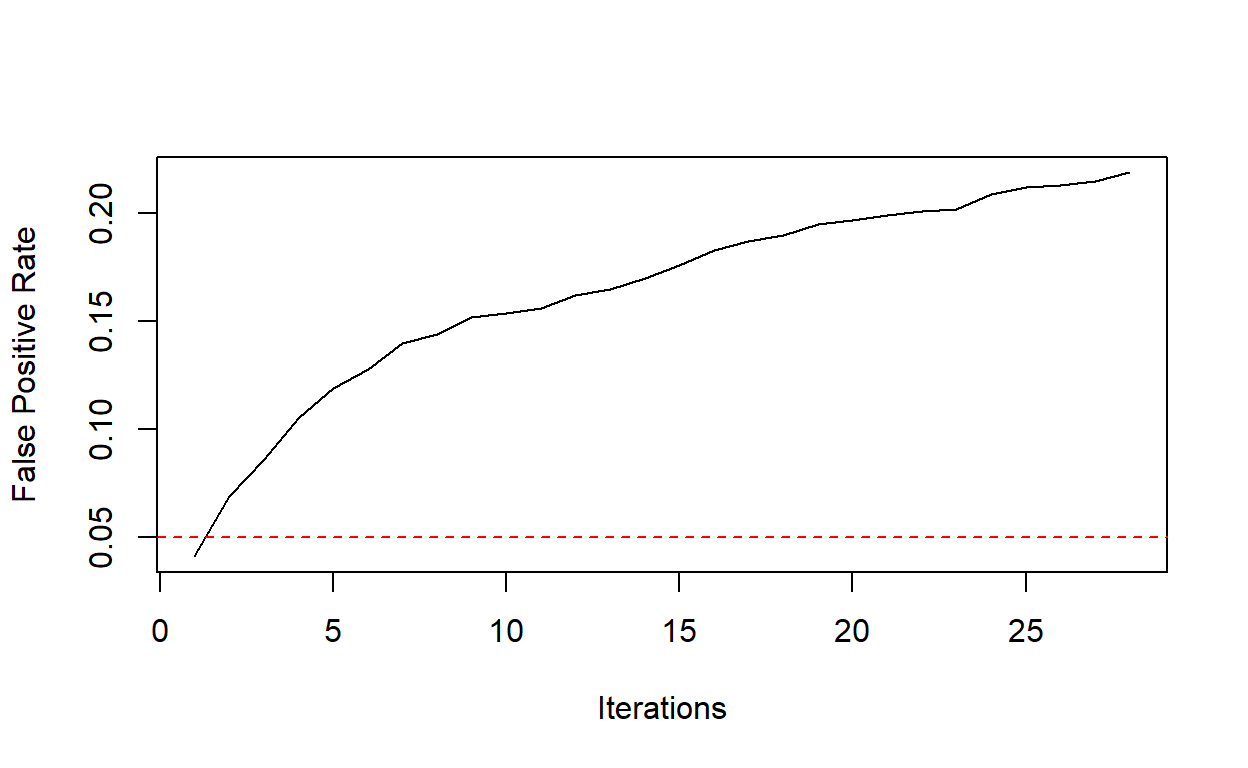
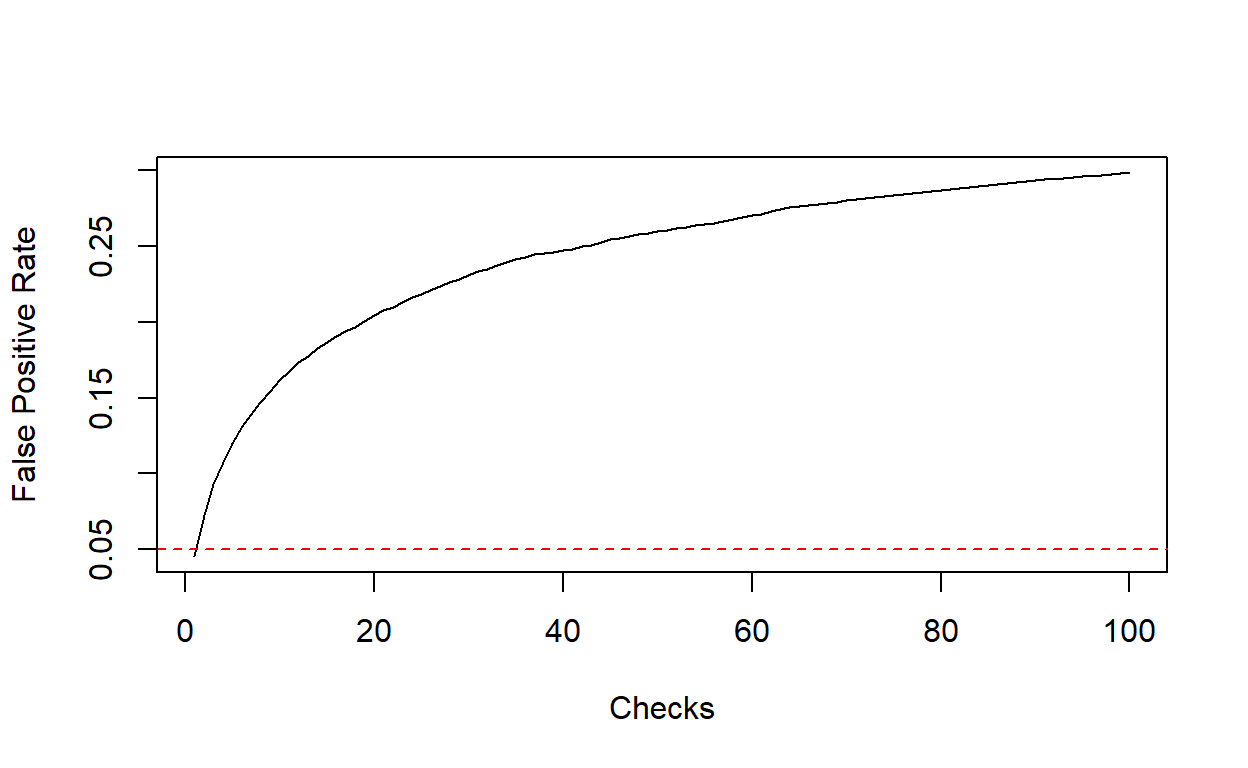
"AB test and repeated checks": add conclusions

diff --git a/_posts/ab-tests-and-repeated-checking/ab-tests-and-repeated-checking.html b/_posts/ab-tests-and-repeated-checking/ab-tests-and-repeated-checking.html
@@ -118,7 +118,7 @@ code span.wa { color: #5e5e5e; font-style: italic; } /* Warning */
   <!--/radix_placeholder_rmarkdown_metadata-->
   
   <script type="text/json" id="radix-resource-manifest">
-  {"type":"character","attributes":{},"value":["ab-tests-and-repeated-checking_files/anchor-4.2.2/anchor.min.js","ab-tests-and-repeated-checking_files/bowser-1.9.3/bowser.min.js","ab-tests-and-repeated-checking_files/distill-2.2.21/template.v2.js","ab-tests-and-repeated-checking_files/figure-html5/unnamed-chunk-5-1.png","ab-tests-and-repeated-checking_files/figure-html5/unnamed-chunk-7-1.png","ab-tests-and-repeated-checking_files/header-attrs-2.23/header-attrs.js","ab-tests-and-repeated-checking_files/jquery-3.6.0/jquery-3.6.0.js","ab-tests-and-repeated-checking_files/jquery-3.6.0/jquery-3.6.0.min.js","ab-tests-and-repeated-checking_files/jquery-3.6.0/jquery-3.6.0.min.map","ab-tests-and-repeated-checking_files/popper-2.6.0/popper.min.js","ab-tests-and-repeated-checking_files/tippy-6.2.7/tippy-bundle.umd.min.js","ab-tests-and-repeated-checking_files/tippy-6.2.7/tippy-light-border.css","ab-tests-and-repeated-checking_files/tippy-6.2.7/tippy.css","ab-tests-and-repeated-checking_files/tippy-6.2.7/tippy.umd.min.js","ab-tests-and-repeated-checking_files/webcomponents-2.0.0/webcomponents.js"]}
+  {"type":"character","attributes":{},"value":["ab-tests-and-repeated-checking_files/anchor-4.2.2/anchor.min.js","ab-tests-and-repeated-checking_files/bowser-1.9.3/bowser.min.js","ab-tests-and-repeated-checking_files/distill-2.2.21/template.v2.js","ab-tests-and-repeated-checking_files/figure-html5/unnamed-chunk-10-1.png","ab-tests-and-repeated-checking_files/figure-html5/unnamed-chunk-11-1.png","ab-tests-and-repeated-checking_files/figure-html5/unnamed-chunk-5-1.png","ab-tests-and-repeated-checking_files/figure-html5/unnamed-chunk-7-1.png","ab-tests-and-repeated-checking_files/header-attrs-2.23/header-attrs.js","ab-tests-and-repeated-checking_files/jquery-3.6.0/jquery-3.6.0.js","ab-tests-and-repeated-checking_files/jquery-3.6.0/jquery-3.6.0.min.js","ab-tests-and-repeated-checking_files/jquery-3.6.0/jquery-3.6.0.min.map","ab-tests-and-repeated-checking_files/popper-2.6.0/popper.min.js","ab-tests-and-repeated-checking_files/tippy-6.2.7/tippy-bundle.umd.min.js","ab-tests-and-repeated-checking_files/tippy-6.2.7/tippy-light-border.css","ab-tests-and-repeated-checking_files/tippy-6.2.7/tippy.css","ab-tests-and-repeated-checking_files/tippy-6.2.7/tippy.umd.min.js","ab-tests-and-repeated-checking_files/webcomponents-2.0.0/webcomponents.js"]}
   </script>
   <!--radix_placeholder_navigation_in_header-->
   <!--/radix_placeholder_navigation_in_header-->
@@ -1671,7 +1671,7 @@ looks as follows:</p>
 <div class="layout-chunk" data-layout="l-body">
 <div class="sourceCode">
 <pre class="sourceCode r"><code class="sourceCode r"><span><span class='fu'><a href='https://rdrr.io/r/base/Random.html'>set.seed</a></span><span class='op'>(</span><span class='fl'>840</span><span class='op'>)</span></span>
-<span><span class='va'>sim_data</span> <span class='op'>&lt;-</span> <span class='fu'><a href='https://rdrr.io/r/base/lapply.html'>replicate</a></span><span class='op'>(</span><span class='fl'>1e3</span>, <span class='fu'>generate_p_values</span><span class='op'>(</span><span class='op'>)</span> <span class='op'>|&gt;</span> <span class='fu'>evaluate_p_values</span><span class='op'>(</span><span class='op'>)</span><span class='op'>)</span></span></code></pre>
+<span><span class='va'>sim_data</span> <span class='op'>&lt;-</span> <span class='fu'><a href='https://rdrr.io/r/base/lapply.html'>replicate</a></span><span class='op'>(</span><span class='fl'>1e4</span>, <span class='fu'>generate_p_values</span><span class='op'>(</span>n <span class='op'>=</span> <span class='fl'>100</span><span class='op'>)</span> <span class='op'>|&gt;</span> <span class='fu'>evaluate_p_values</span><span class='op'>(</span><span class='op'>)</span><span class='op'>)</span></span></code></pre>
 </div>
 </div>
 <p>The result is a matrix whose columns are logical vectors such as the one above:</p>
@@ -1679,32 +1679,133 @@ looks as follows:</p>
 <div class="sourceCode">
 <pre class="sourceCode r"><code class="sourceCode r"><span><span class='va'>sim_data</span><span class='op'>[</span>,<span class='fl'>1</span><span class='op'>]</span></span></code></pre>
 </div>
-<pre><code> [1] FALSE FALSE FALSE FALSE FALSE FALSE FALSE FALSE FALSE FALSE FALSE
-[12] FALSE FALSE FALSE FALSE FALSE FALSE FALSE FALSE FALSE FALSE FALSE
-[23] FALSE FALSE FALSE FALSE FALSE FALSE</code></pre>
+<pre><code>  [1] FALSE FALSE FALSE FALSE FALSE FALSE FALSE FALSE FALSE FALSE
+ [11] FALSE FALSE FALSE FALSE FALSE FALSE FALSE FALSE FALSE FALSE
+ [21] FALSE FALSE FALSE FALSE FALSE FALSE FALSE FALSE FALSE FALSE
+ [31] FALSE FALSE FALSE FALSE FALSE FALSE FALSE FALSE FALSE FALSE
+ [41] FALSE FALSE FALSE FALSE FALSE FALSE FALSE FALSE FALSE FALSE
+ [51] FALSE FALSE FALSE FALSE FALSE FALSE FALSE FALSE FALSE FALSE
+ [61] FALSE FALSE FALSE FALSE FALSE FALSE FALSE FALSE FALSE FALSE
+ [71] FALSE FALSE FALSE FALSE FALSE FALSE FALSE FALSE FALSE FALSE
+ [81] FALSE FALSE FALSE FALSE FALSE FALSE FALSE FALSE FALSE FALSE
+ [91] FALSE FALSE FALSE FALSE FALSE FALSE FALSE FALSE FALSE FALSE</code></pre>
 </div>
 <p>(a true negative result). Hence, the averages of this matrix rows provide the
 false positive rates after <span class="math inline">\(n\)</span> checks:</p>
 <div class="layout-chunk" data-layout="l-body">
 <div class="sourceCode">
-<pre class="sourceCode r"><code class="sourceCode r"><span><span class='va'>fprs</span> <span class='op'>&lt;-</span> <span class='fu'><a href='https://rdrr.io/r/base/colSums.html'>rowMeans</a></span><span class='op'>(</span><span class='va'>sim_data</span><span class='op'>)</span></span>
-<span><span class='fu'><a href='https://rdrr.io/r/graphics/plot.default.html'>plot</a></span><span class='op'>(</span><span class='va'>fprs</span>, type <span class='op'>=</span> <span class='st'>"l"</span>, xlab <span class='op'>=</span> <span class='st'>"Iterations"</span>, ylab <span class='op'>=</span> <span class='st'>"False Positive Rate"</span><span class='op'>)</span></span>
+<pre class="sourceCode r"><code class="sourceCode r"><span><span class='va'>fpr</span> <span class='op'>&lt;-</span> <span class='fu'><a href='https://rdrr.io/r/base/colSums.html'>rowMeans</a></span><span class='op'>(</span><span class='va'>sim_data</span><span class='op'>)</span></span>
+<span><span class='fu'><a href='https://rdrr.io/r/graphics/plot.default.html'>plot</a></span><span class='op'>(</span><span class='va'>fpr</span>, type <span class='op'>=</span> <span class='st'>"l"</span>, xlab <span class='op'>=</span> <span class='st'>"Checks"</span>, ylab <span class='op'>=</span> <span class='st'>"False Positive Rate"</span><span class='op'>)</span></span>
 <span><span class='fu'><a href='https://rdrr.io/r/graphics/abline.html'>abline</a></span><span class='op'>(</span>h <span class='op'>=</span> <span class='fl'>0.05</span>, col <span class='op'>=</span> <span class='st'>"red"</span>, lty <span class='op'>=</span> <span class='st'>"dashed"</span><span class='op'>)</span></span></code></pre>
 </div>
 <p><img src="ab-tests-and-repeated-checking_files/figure-html5/unnamed-chunk-7-1.png" width="624" /></p>
 </div>
-<h2 id="other-simulation">Other simulation</h2>
-<p>Using the logic “if significance &gt; 80%”, continue the experiment, otherwise
-not.</p>
-<h2 id="notes">Notes</h2>
-<p>But before jumping into numbers, let us ask for a moment:
-<em>should we really care?</em></p>
+<p>The curve above shows how the FPR depends on the number of checks performed,
+according to the procedure described in the previous section. For a single
+check, this coincides with FPR of an individual binomial test<a href="#fn5" class="footnote-ref" id="fnref5" role="doc-noteref"><sup>5</sup></a>. However, allowing for repeated checks, we
+see that the overall FPR steadily increases with number of checks. With <span class="math inline">\(n = 3\)</span>
+checks, the FPR is already close to 10%, almost twice the FPR of the individual
+tests:</p>
+<div class="layout-chunk" data-layout="l-body">
+<div class="sourceCode">
+<pre class="sourceCode r"><code class="sourceCode r"><span><span class='va'>fpr</span><span class='op'>[</span><span class='fl'>3</span><span class='op'>]</span></span></code></pre>
+</div>
+<pre><code>[1] 0.0929</code></pre>
+</div>
+<p>With <span class="math inline">\(n \approx 40\)</span> checks, the FPR is about <span class="math inline">\(25 \%\)</span>, the same FPR of
+an experiment that involves tossing a coin twice, declaring it biased if the
+result is two consecutive “tails”.</p>
+<div class="layout-chunk" data-layout="l-body">
+<div class="sourceCode">
+<pre class="sourceCode r"><code class="sourceCode r"><span><span class='va'>fpr</span><span class='op'>[</span><span class='fl'>40</span><span class='op'>]</span></span></code></pre>
+</div>
+<pre><code>[1] 0.2471</code></pre>
+</div>
+<p>Here we are assuming that data is re-checked after the arrival of every single
+batch, but there are of course infinite alternative possibilities. For instance,
+the plot below shows what happens when checks are performed after
+the collection of <span class="math inline">\(n = 1, \,4, \,16, \,64\)</span> batches of data (at each checkpoint,
+the expected size of statistical fluctuations is reduced by a factor of <span class="math inline">\(2\)</span>).</p>
+<div class="layout-chunk" data-layout="l-body">
+<details>
+<summary>
+Show code
+</summary>
+<div class="sourceCode">
+<pre class="sourceCode r"><code class="sourceCode r"><span><span class='va'>checkpoints</span> <span class='op'>&lt;-</span> <span class='fu'><a href='https://rdrr.io/r/base/c.html'>c</a></span><span class='op'>(</span><span class='fl'>1</span>, <span class='fl'>4</span>, <span class='fl'>16</span>, <span class='fl'>64</span><span class='op'>)</span></span>
+<span></span>
+<span><span class='fu'><a href='https://rdrr.io/r/base/Random.html'>set.seed</a></span><span class='op'>(</span><span class='fl'>840</span><span class='op'>)</span></span>
+<span><span class='va'>fpr2</span> <span class='op'>&lt;-</span> <span class='fu'><a href='https://rdrr.io/r/base/lapply.html'>replicate</a></span><span class='op'>(</span><span class='fl'>1e4</span>, </span>
+<span>          <span class='fu'>generate_p_values</span><span class='op'>(</span>n <span class='op'>=</span> <span class='fl'>64</span><span class='op'>)</span> <span class='op'>|&gt;</span> </span>
+<span>            <span class='fu'>evaluate_p_values</span><span class='op'>(</span>checkpoints <span class='op'>=</span> <span class='va'>checkpoints</span><span class='op'>)</span></span>
+<span>          <span class='op'>)</span> <span class='op'>|&gt;</span></span>
+<span>  <span class='fu'><a href='https://rdrr.io/r/base/colSums.html'>rowMeans</a></span><span class='op'>(</span><span class='op'>)</span></span>
+<span></span>
+<span><span class='fu'><a href='https://rdrr.io/r/graphics/plot.default.html'>plot</a></span><span class='op'>(</span><span class='va'>fpr2</span>, </span>
+<span>     type <span class='op'>=</span> <span class='st'>"b"</span>, </span>
+<span>     xlab <span class='op'>=</span> <span class='st'>"Checks"</span>, </span>
+<span>     ylab <span class='op'>=</span> <span class='st'>"False Positive Rate"</span>, </span>
+<span>     xaxt <span class='op'>=</span> <span class='st'>"n"</span></span>
+<span>     <span class='op'>)</span></span>
+<span></span>
+<span><span class='fu'><a href='https://rdrr.io/r/graphics/abline.html'>abline</a></span><span class='op'>(</span>h <span class='op'>=</span> <span class='fl'>0.05</span>, col <span class='op'>=</span> <span class='st'>"red"</span>, lty <span class='op'>=</span> <span class='st'>"dashed"</span><span class='op'>)</span></span>
+<span><span class='fu'><a href='https://rdrr.io/r/graphics/axis.html'>axis</a></span><span class='op'>(</span><span class='fl'>1</span>, at <span class='op'>=</span> <span class='fu'><a href='https://rdrr.io/r/base/seq.html'>seq_along</a></span><span class='op'>(</span><span class='va'>checkpoints</span><span class='op'>)</span><span class='op'>)</span></span>
+<span><span class='fu'><a href='https://rdrr.io/r/graphics/axis.html'>axis</a></span><span class='op'>(</span><span class='fl'>3</span>, at <span class='op'>=</span> <span class='fu'><a href='https://rdrr.io/r/base/seq.html'>seq_along</a></span><span class='op'>(</span><span class='va'>checkpoints</span><span class='op'>)</span>, labels <span class='op'>=</span> <span class='fu'><a href='https://rdrr.io/r/base/paste.html'>paste</a></span><span class='op'>(</span><span class='va'>checkpoints</span>, <span class='st'>"K"</span><span class='op'>)</span><span class='op'>)</span></span>
+<span><span class='fu'><a href='https://rdrr.io/r/graphics/mtext.html'>mtext</a></span><span class='op'>(</span><span class='st'>"Sample Size"</span>, side <span class='op'>=</span> <span class='fl'>3</span>, line <span class='op'>=</span> <span class='fl'>2</span><span class='op'>)</span></span></code></pre>
+</div>
+</details>
+<p><img src="ab-tests-and-repeated-checking_files/figure-html5/unnamed-chunk-10-1.png" width="624" /></p>
+</div>
+<p>As a third possible variation, we may think of applying different <span class="math inline">\(p\)</span>-value
+thresholds at different checks (a scheme that can be actually made to work in
+practice, see for instance the Wikipedia article on the <a href="https://en.wikipedia.org/wiki/Haybittle%E2%80%93Peto_boundary">Haybittle–Peto boundary</a>).
+The following plot illustrates this, assuming three (equally spaced) checks
+after the collection of <span class="math inline">\(n = 1,\,2,\,3\)</span> data batches, using the significance
+thresholds <span class="math inline">\(\alpha = 0.01, \,0.025, \,0.05\)</span>, respectively.</p>
+<div class="layout-chunk" data-layout="l-body">
+<div class="sourceCode">
+<pre class="sourceCode r"><code class="sourceCode r"><span><span class='fu'><a href='https://rdrr.io/r/base/Random.html'>set.seed</a></span><span class='op'>(</span><span class='fl'>840</span><span class='op'>)</span></span>
+<span></span>
+<span><span class='va'>alpha</span> <span class='op'>&lt;-</span> <span class='fu'><a href='https://rdrr.io/r/base/c.html'>c</a></span><span class='op'>(</span><span class='fl'>0.01</span>, <span class='fl'>0.025</span>, <span class='fl'>0.05</span><span class='op'>)</span></span>
+<span></span>
+<span><span class='va'>fpr3</span> <span class='op'>&lt;-</span> <span class='fu'><a href='https://rdrr.io/r/base/lapply.html'>replicate</a></span><span class='op'>(</span><span class='fl'>1e4</span>, </span>
+<span>          <span class='fu'>generate_p_values</span><span class='op'>(</span>n <span class='op'>=</span> <span class='fl'>3</span><span class='op'>)</span> <span class='op'>|&gt;</span> </span>
+<span>            <span class='fu'>evaluate_p_values</span><span class='op'>(</span>alpha <span class='op'>=</span> <span class='va'>alpha</span><span class='op'>)</span></span>
+<span>          <span class='op'>)</span> <span class='op'>|&gt;</span></span>
+<span>  <span class='fu'><a href='https://rdrr.io/r/base/colSums.html'>rowMeans</a></span><span class='op'>(</span><span class='op'>)</span></span>
+<span></span>
+<span><span class='fu'><a href='https://rdrr.io/r/graphics/plot.default.html'>plot</a></span><span class='op'>(</span><span class='va'>fpr3</span>, </span>
+<span>     type <span class='op'>=</span> <span class='st'>"b"</span>, </span>
+<span>     xlab <span class='op'>=</span> <span class='st'>"Checks"</span>, </span>
+<span>     ylab <span class='op'>=</span> <span class='st'>"False Positive Rate"</span>, </span>
+<span>     xaxt <span class='op'>=</span> <span class='st'>"n"</span></span>
+<span>     <span class='op'>)</span></span>
+<span></span>
+<span><span class='fu'><a href='https://rdrr.io/r/graphics/abline.html'>abline</a></span><span class='op'>(</span>h <span class='op'>=</span> <span class='va'>alpha</span><span class='op'>[</span><span class='fl'>3</span><span class='op'>]</span>, col <span class='op'>=</span> <span class='st'>"red"</span>, lty <span class='op'>=</span> <span class='st'>"dashed"</span><span class='op'>)</span></span>
+<span><span class='fu'><a href='https://rdrr.io/r/graphics/abline.html'>abline</a></span><span class='op'>(</span>h <span class='op'>=</span> <span class='va'>alpha</span><span class='op'>[</span><span class='fl'>2</span><span class='op'>]</span>, col <span class='op'>=</span> <span class='st'>"blue"</span>, lty <span class='op'>=</span> <span class='st'>"dashed"</span><span class='op'>)</span></span>
+<span><span class='fu'><a href='https://rdrr.io/r/graphics/axis.html'>axis</a></span><span class='op'>(</span><span class='fl'>1</span>, at <span class='op'>=</span> <span class='fu'><a href='https://rdrr.io/r/base/seq.html'>seq_along</a></span><span class='op'>(</span><span class='va'>fpr3</span><span class='op'>)</span><span class='op'>)</span></span>
+<span><span class='fu'><a href='https://rdrr.io/r/graphics/axis.html'>axis</a></span><span class='op'>(</span><span class='fl'>3</span>, at <span class='op'>=</span> <span class='fu'><a href='https://rdrr.io/r/base/seq.html'>seq_along</a></span><span class='op'>(</span><span class='va'>fpr3</span><span class='op'>)</span>, labels <span class='op'>=</span> <span class='va'>alpha</span><span class='op'>)</span></span>
+<span><span class='fu'><a href='https://rdrr.io/r/graphics/mtext.html'>mtext</a></span><span class='op'>(</span><span class='st'>"p-value threshold"</span>, side <span class='op'>=</span> <span class='fl'>3</span>, line <span class='op'>=</span> <span class='fl'>2</span><span class='op'>)</span></span></code></pre>
+</div>
+<p><img src="ab-tests-and-repeated-checking_files/figure-html5/unnamed-chunk-11-1.png" width="624" /></p>
+</div>
+<h2 id="conclusions">Conclusions</h2>
+<p>This post illustrated quantitatively how the performance of repeated checks
+during the process of data collection can affect the overall False Positive Rate
+of an experimental analysis. The code provided above can be easily adapted to
+simulate other types of experiments and schemes for interim checks.</p>
+<p>A question that may possibly arise is: <em>should I really care?</em> You could argue
+that what I’ve shown here represents a simple trade-off between FPR on one side,
+FNR and efficiency (speed) in detection of a signal on the other.</p>
 <p>My answer is a resounding <em>yes</em>, irrespective of whether you are running
 experiments for purely scientific or utilitaristic purposes. If you are unable
-to quantify, or at least approximate, the true FPR and FNR of a statistical
-test, it means that you essentially don’t know what you are doing: you may be
-convinced that your setting gives a false positive</p>
-<div class="sourceCode" id="cb4"><pre class="sourceCode r distill-force-highlighting-css"><code class="sourceCode r"></code></pre></div>
+to characterize (at least approximately) the FPR and FNR of your analysis,
+the whole point of running a formal test
+(instead of simply collecting some data and making an educated guess) looks very
+dubious to me. Other story is if you are able to tell <em>in advance</em> how interim
+checks affect FPR/FNR, and use this knowledge to optimize your analysis
+procedure - this post provides some basic tools to do so.</p>
+<div class="sourceCode" id="cb6"><pre class="sourceCode r distill-force-highlighting-css"><code class="sourceCode r"></code></pre></div>
 <section id="footnotes" class="footnotes footnotes-end-of-document" role="doc-endnotes">
 <hr />
 <ol>
@@ -1725,6 +1826,11 @@ the difference is that the schedule takes into account that continuous and/or
 interim checks will be performed.<a href="#fnref3" class="footnote-back" role="doc-backlink">↩</a></p></li>
 <li id="fn4"><p>Technically, this would be a
 two-sample, one-sided binomial test.<a href="#fnref4" class="footnote-back" role="doc-backlink">↩</a></p></li>
+<li id="fn5"><p>The fact that
+this is not exactly equal to <span class="math inline">\(\alpha\)</span>, but in fact slightly smaller, is due to
+the discreteness of the underlying binomial distributions. The <span class="math inline">\(p\)</span>-value of the
+binomial test is defined in such a way to satisfy
+<span class="math inline">\(\text{Pr}(p &lt; \alpha)\leq \alpha\)</span>.<a href="#fnref5" class="footnote-back" role="doc-backlink">↩</a></p></li>
 </ol>
 </section>
 <!--radix_placeholder_article_footer-->
